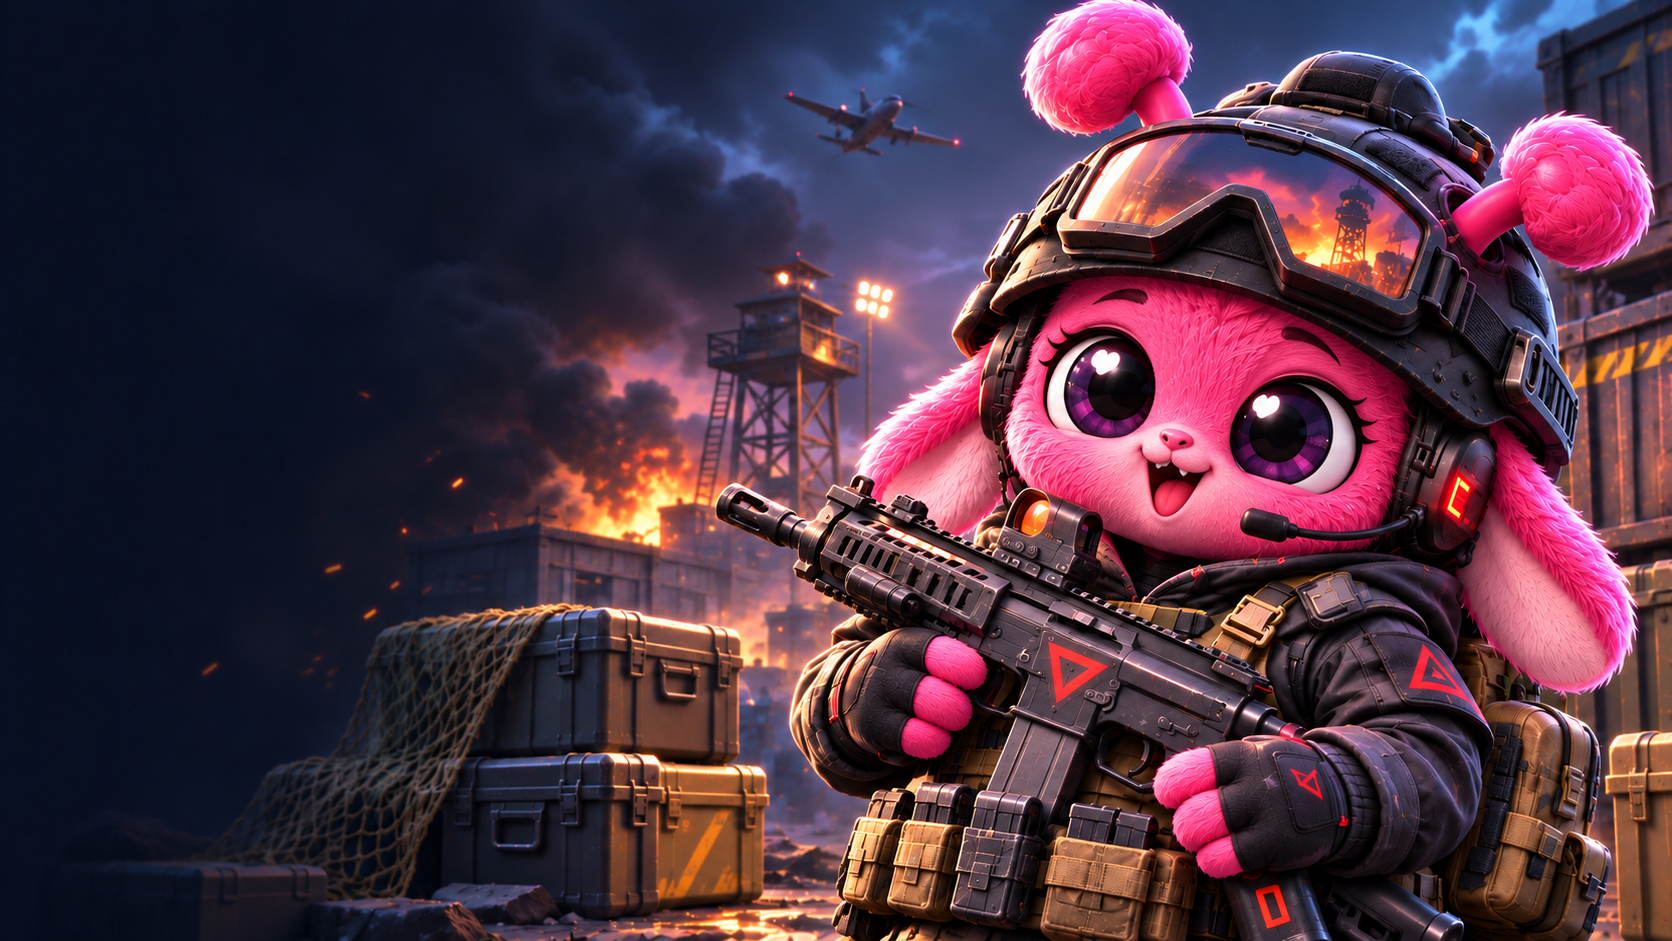
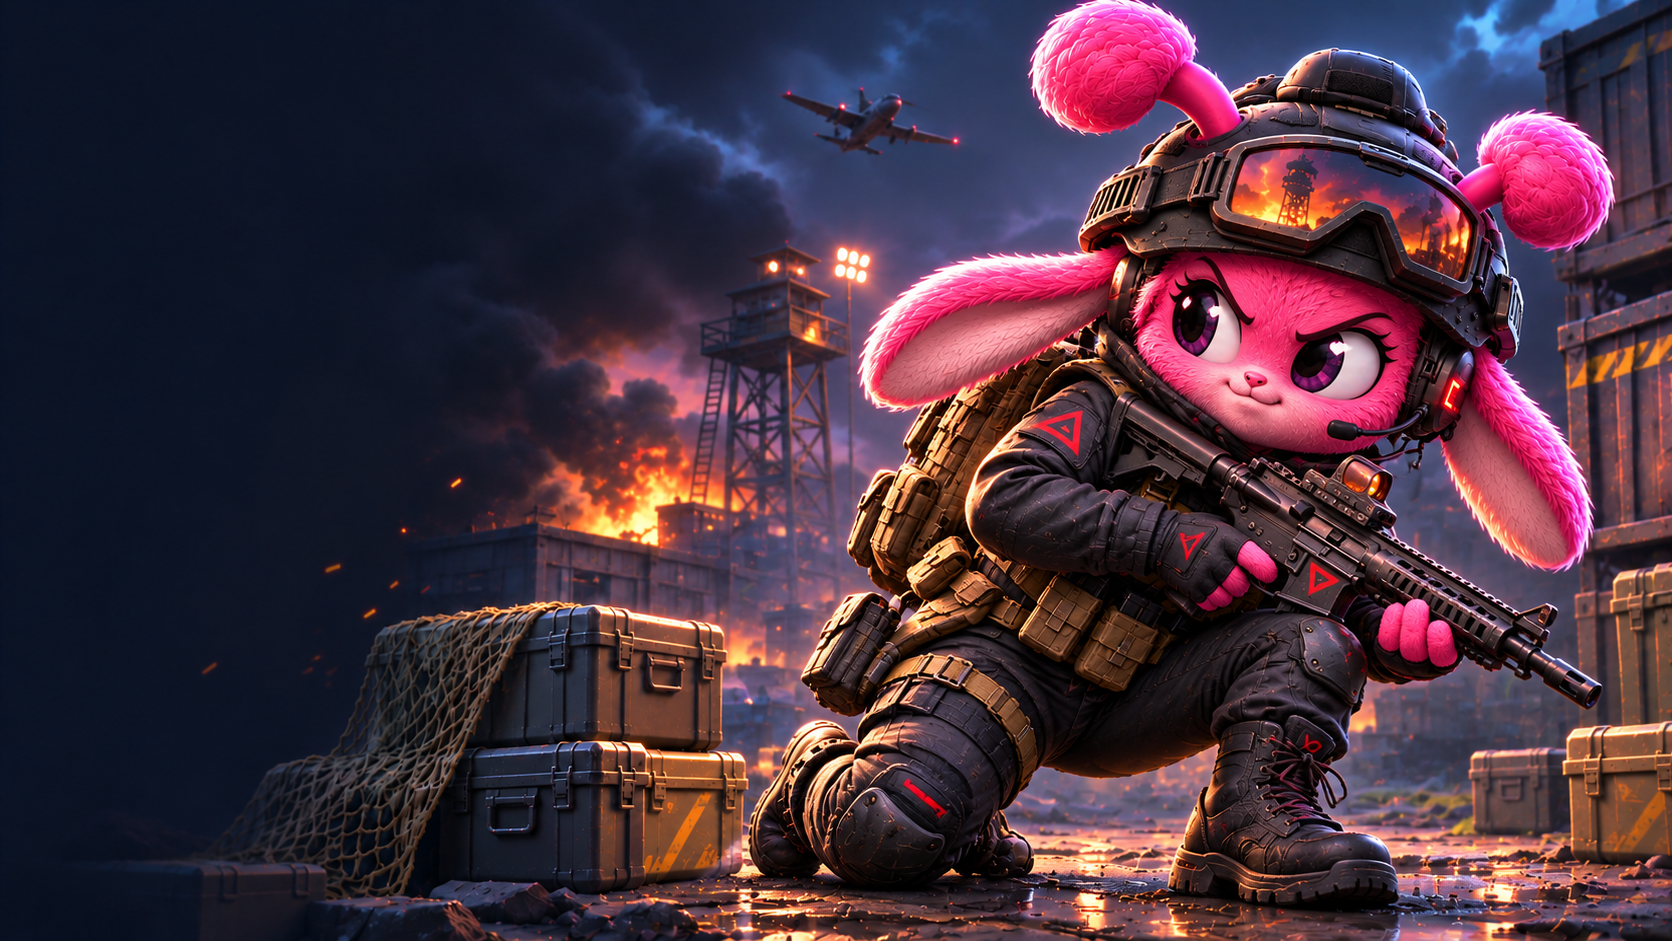
Give catalog mascots varied poses

diff --git a/public/home.html b/public/home.html
@@ -185,7 +185,7 @@ let category='Все';const cards=document.querySelector('#cards'),empty=documen
 const suggestions=document.createElement('div');suggestions.className='search-results';suggestions.hidden=true;search.parentElement.append(suggestions);search.setAttribute('autocomplete','off');search.setAttribute('aria-autocomplete','list');suggestions.setAttribute('role','listbox');
 function updateSuggestions(){const q=search.value.trim().toLocaleLowerCase('ru');suggestions.replaceChildren();if(!q){suggestions.hidden=true;return}const found=products.filter(item=>!item.hiddenFromCatalog&&item.name.toLocaleLowerCase('ru').includes(q));for(const item of found.slice(0,8)){const a=document.createElement('a');a.href='/catalog.html?'+new URLSearchParams({product:item.name});a.className='search-result';a.setAttribute('role','option');a.textContent=item.name;suggestions.append(a)}if(!found.length){const msg=document.createElement('span');msg.className='search-no-result';msg.textContent='Ничего не найдено';suggestions.append(msg)}suggestions.hidden=false}
 search.addEventListener('input',updateSuggestions);search.addEventListener('focus',updateSuggestions);search.addEventListener('keydown',event=>{if(event.key==='Escape')suggestions.hidden=true});document.addEventListener('click',event=>{if(!search.parentElement.contains(event.target))suggestions.hidden=true});
-function render(){const query=search.value.trim().toLocaleLowerCase('ru');const matches=products.filter(item=>!item.hiddenFromCatalog&&(query||category==='Все'||item.group===category)&&(!query||`${item.name} ${item.group}`.toLocaleLowerCase('ru').includes(query)));cards.innerHTML=matches.map(item=>`<article class="product" style="--scene-x:${(productScenes[products.indexOf(item)]%4)*100/3}%;--scene-y:${Math.floor(productScenes[products.indexOf(item)]/4)*100}%"><span class="product-scene ${item.image?'custom-scene':''}" style="--new-image:url(/assets/category-${item.image||'arena'}.png?v=5);--cinematic-image:url(/assets/catalog-cinematic-${Math.floor(products.indexOf(item)/6)+1}.png);--cinematic-x:${(products.indexOf(item)%2)*100}%;--cinematic-y:${Math.floor((products.indexOf(item)%6)/2)*50}%;--cinematic-ratio:${Math.floor(products.indexOf(item)/6)===1?2.25:2.665}" aria-hidden="true"></span><small>${item.group}</small><h3>${item.name}</h3><p>${item.group === "Подписки" ? "Подписки и предложения" : item.group === "Донат" ? "Товары для любимой игры" : "Пополнение и предложения"}</p><button class="product-view" type="button" data-product="${products.indexOf(item)}" aria-label="Посмотреть ${item.name}">Посмотреть →</button></article>`).join('');empty.hidden=matches.length>0}
+function render(){const query=search.value.trim().toLocaleLowerCase('ru');const matches=products.filter(item=>!item.hiddenFromCatalog&&(query||category==='Все'||item.group===category)&&(!query||`${item.name} ${item.group}`.toLocaleLowerCase('ru').includes(query)));cards.innerHTML=matches.map(item=>`<article class="product" style="--scene-x:${(productScenes[products.indexOf(item)]%4)*100/3}%;--scene-y:${Math.floor(productScenes[products.indexOf(item)]/4)*100}%"><span class="product-scene ${item.image?'custom-scene':''}" style="--new-image:url(/assets/category-${item.image||'arena'}.png?v=6);--cinematic-image:url(/assets/catalog-cinematic-${Math.floor(products.indexOf(item)/6)+1}.png);--cinematic-x:${(products.indexOf(item)%2)*100}%;--cinematic-y:${Math.floor((products.indexOf(item)%6)/2)*50}%;--cinematic-ratio:${Math.floor(products.indexOf(item)/6)===1?2.25:2.665}" aria-hidden="true"></span><small>${item.group}</small><h3>${item.name}</h3><p>${item.group === "Подписки" ? "Подписки и предложения" : item.group === "Донат" ? "Товары для любимой игры" : "Пополнение и предложения"}</p><button class="product-view" type="button" data-product="${products.indexOf(item)}" aria-label="Посмотреть ${item.name}">Посмотреть →</button></article>`).join('');empty.hidden=matches.length>0}
 cards.addEventListener('click',event=>{const card=event.target.closest('.product');if(!card||!cards.contains(card))return;const button=card.querySelector('[data-product]');if(!button)return;const item=products[Number(button.dataset.product)];if(!item)return;try{sessionStorage.setItem('mupple-last-product',item.name)}catch{};window.location.href='/catalog.html?'+new URLSearchParams({product:item.name}).toString()});
 document.querySelectorAll('.tab').forEach(btn=>btn.addEventListener('click',()=>{category=btn.dataset.category;document.querySelectorAll('.tab').forEach(t=>{t.classList.toggle('active',t===btn);t.setAttribute('aria-selected',t===btn?'true':'false')});render()}));search.addEventListener('input',render);search.addEventListener('keydown',e=>{if(e.key==='Enter'){const first=suggestions.querySelector('a');if(first){e.preventDefault();location.href=first.href}else document.querySelector('#catalog').scrollIntoView({behavior:'smooth'})}});document.querySelectorAll('[data-amount]').forEach(btn=>btn.addEventListener('click',()=>{document.querySelector('#amount').value=btn.dataset.amount;document.querySelectorAll('[data-amount]').forEach(b=>b.classList.toggle('active',b===btn));updateStarsFromAmount()}));document.querySelector('#amount').addEventListener('input',e=>{document.querySelectorAll('[data-amount]').forEach(b=>b.classList.toggle('active',Number(b.dataset.amount)===Number(e.target.value)&&e.target.value!==''));updateStarsFromAmount()});let presetCurrency=null;function updateCurrency(){const steam=document.querySelector('#platform').value==='Steam',currency=steam?document.querySelector('#region').value:'RUB',sign=currencySigns[currency],presets={RUB:[500,1000,2500,5000],KZT:[3000,6000,14000,28000],UAH:[300,600,1400,2800]}[currency],amount=document.querySelector('#amount');if(presetCurrency!==null&&presetCurrency!==currency)amount.value=presets[1];presetCurrency=currency;document.querySelector('#currency-label').textContent=currency+' '+sign;document.querySelector('#currency-sign').textContent=sign;document.querySelectorAll('[data-amount]').forEach((button,index)=>{button.dataset.amount=String(presets[index]);button.textContent=presets[index].toLocaleString('ru-RU')+' '+sign;button.classList.toggle('active',button.dataset.amount===amount.value)})}
 const platformIcons={'Steam':{type:'steam',image:'/assets/platforms/steam-mark.png'},'Telegram Stars':{type:'telegram',image:'/assets/platforms/telegram-mark.png'},'Marvel Rivals':{type:'marvel',image:'/assets/platforms/marvel-mark.png'},'Free Fire':{type:'freefire',image:'/assets/platforms/freefire-logo.png'},'PUBG Mobile':{type:'pubg',image:'/assets/platforms/pubg-mark.png'},'Honkai: Star Rail':{type:'honkai',image:'/assets/platforms/honkai-mark.png'}};

diff --git a/public/index.html b/public/index.html
@@ -185,7 +185,7 @@ let category='Все';const cards=document.querySelector('#cards'),empty=documen
 const suggestions=document.createElement('div');suggestions.className='search-results';suggestions.hidden=true;search.parentElement.append(suggestions);search.setAttribute('autocomplete','off');search.setAttribute('aria-autocomplete','list');suggestions.setAttribute('role','listbox');
 function updateSuggestions(){const q=search.value.trim().toLocaleLowerCase('ru');suggestions.replaceChildren();if(!q){suggestions.hidden=true;return}const found=products.filter(item=>!item.hiddenFromCatalog&&item.name.toLocaleLowerCase('ru').includes(q));for(const item of found.slice(0,8)){const a=document.createElement('a');a.href='/catalog.html?'+new URLSearchParams({product:item.name});a.className='search-result';a.setAttribute('role','option');a.textContent=item.name;suggestions.append(a)}if(!found.length){const msg=document.createElement('span');msg.className='search-no-result';msg.textContent='Ничего не найдено';suggestions.append(msg)}suggestions.hidden=false}
 search.addEventListener('input',updateSuggestions);search.addEventListener('focus',updateSuggestions);search.addEventListener('keydown',event=>{if(event.key==='Escape')suggestions.hidden=true});document.addEventListener('click',event=>{if(!search.parentElement.contains(event.target))suggestions.hidden=true});
-function render(){const query=search.value.trim().toLocaleLowerCase('ru');const matches=products.filter(item=>!item.hiddenFromCatalog&&(query||category==='Все'||item.group===category)&&(!query||`${item.name} ${item.group}`.toLocaleLowerCase('ru').includes(query)));cards.innerHTML=matches.map(item=>`<article class="product" style="--scene-x:${(productScenes[products.indexOf(item)]%4)*100/3}%;--scene-y:${Math.floor(productScenes[products.indexOf(item)]/4)*100}%"><span class="product-scene ${item.image?'custom-scene':''}" style="--new-image:url(/assets/category-${item.image||'arena'}.png?v=5);--cinematic-image:url(/assets/catalog-cinematic-${Math.floor(products.indexOf(item)/6)+1}.png);--cinematic-x:${(products.indexOf(item)%2)*100}%;--cinematic-y:${Math.floor((products.indexOf(item)%6)/2)*50}%;--cinematic-ratio:${Math.floor(products.indexOf(item)/6)===1?2.25:2.665}" aria-hidden="true"></span><small>${item.group}</small><h3>${item.name}</h3><p>${item.group === "Подписки" ? "Подписки и предложения" : item.group === "Донат" ? "Товары для любимой игры" : "Пополнение и предложения"}</p><button class="product-view" type="button" data-product="${products.indexOf(item)}" aria-label="Посмотреть ${item.name}">Посмотреть →</button></article>`).join('');empty.hidden=matches.length>0}
+function render(){const query=search.value.trim().toLocaleLowerCase('ru');const matches=products.filter(item=>!item.hiddenFromCatalog&&(query||category==='Все'||item.group===category)&&(!query||`${item.name} ${item.group}`.toLocaleLowerCase('ru').includes(query)));cards.innerHTML=matches.map(item=>`<article class="product" style="--scene-x:${(productScenes[products.indexOf(item)]%4)*100/3}%;--scene-y:${Math.floor(productScenes[products.indexOf(item)]/4)*100}%"><span class="product-scene ${item.image?'custom-scene':''}" style="--new-image:url(/assets/category-${item.image||'arena'}.png?v=6);--cinematic-image:url(/assets/catalog-cinematic-${Math.floor(products.indexOf(item)/6)+1}.png);--cinematic-x:${(products.indexOf(item)%2)*100}%;--cinematic-y:${Math.floor((products.indexOf(item)%6)/2)*50}%;--cinematic-ratio:${Math.floor(products.indexOf(item)/6)===1?2.25:2.665}" aria-hidden="true"></span><small>${item.group}</small><h3>${item.name}</h3><p>${item.group === "Подписки" ? "Подписки и предложения" : item.group === "Донат" ? "Товары для любимой игры" : "Пополнение и предложения"}</p><button class="product-view" type="button" data-product="${products.indexOf(item)}" aria-label="Посмотреть ${item.name}">Посмотреть →</button></article>`).join('');empty.hidden=matches.length>0}
 cards.addEventListener('click',event=>{const card=event.target.closest('.product');if(!card||!cards.contains(card))return;const button=card.querySelector('[data-product]');if(!button)return;const item=products[Number(button.dataset.product)];if(!item)return;try{sessionStorage.setItem('mupple-last-product',item.name)}catch{};window.location.href='/catalog.html?'+new URLSearchParams({product:item.name}).toString()});
 document.querySelectorAll('.tab').forEach(btn=>btn.addEventListener('click',()=>{category=btn.dataset.category;document.querySelectorAll('.tab').forEach(t=>{t.classList.toggle('active',t===btn);t.setAttribute('aria-selected',t===btn?'true':'false')});render()}));search.addEventListener('input',render);search.addEventListener('keydown',e=>{if(e.key==='Enter'){const first=suggestions.querySelector('a');if(first){e.preventDefault();location.href=first.href}else document.querySelector('#catalog').scrollIntoView({behavior:'smooth'})}});document.querySelectorAll('[data-amount]').forEach(btn=>btn.addEventListener('click',()=>{document.querySelector('#amount').value=btn.dataset.amount;document.querySelectorAll('[data-amount]').forEach(b=>b.classList.toggle('active',b===btn));updateStarsFromAmount()}));document.querySelector('#amount').addEventListener('input',e=>{document.querySelectorAll('[data-amount]').forEach(b=>b.classList.toggle('active',Number(b.dataset.amount)===Number(e.target.value)&&e.target.value!==''));updateStarsFromAmount()});let presetCurrency=null;function updateCurrency(){const steam=document.querySelector('#platform').value==='Steam',currency=steam?document.querySelector('#region').value:'RUB',sign=currencySigns[currency],presets={RUB:[500,1000,2500,5000],KZT:[3000,6000,14000,28000],UAH:[300,600,1400,2800]}[currency],amount=document.querySelector('#amount');if(presetCurrency!==null&&presetCurrency!==currency)amount.value=presets[1];presetCurrency=currency;document.querySelector('#currency-label').textContent=currency+' '+sign;document.querySelector('#currency-sign').textContent=sign;document.querySelectorAll('[data-amount]').forEach((button,index)=>{button.dataset.amount=String(presets[index]);button.textContent=presets[index].toLocaleString('ru-RU')+' '+sign;button.classList.toggle('active',button.dataset.amount===amount.value)})}
 const platformIcons={'Steam':{type:'steam',image:'/assets/platforms/steam-mark.png'},'Telegram Stars':{type:'telegram',image:'/assets/platforms/telegram-mark.png'},'Marvel Rivals':{type:'marvel',image:'/assets/platforms/marvel-mark.png'},'Free Fire':{type:'freefire',image:'/assets/platforms/freefire-logo.png'},'PUBG Mobile':{type:'pubg',image:'/assets/platforms/pubg-mark.png'},'Honkai: Star Rail':{type:'honkai',image:'/assets/platforms/honkai-mark.png'}};
